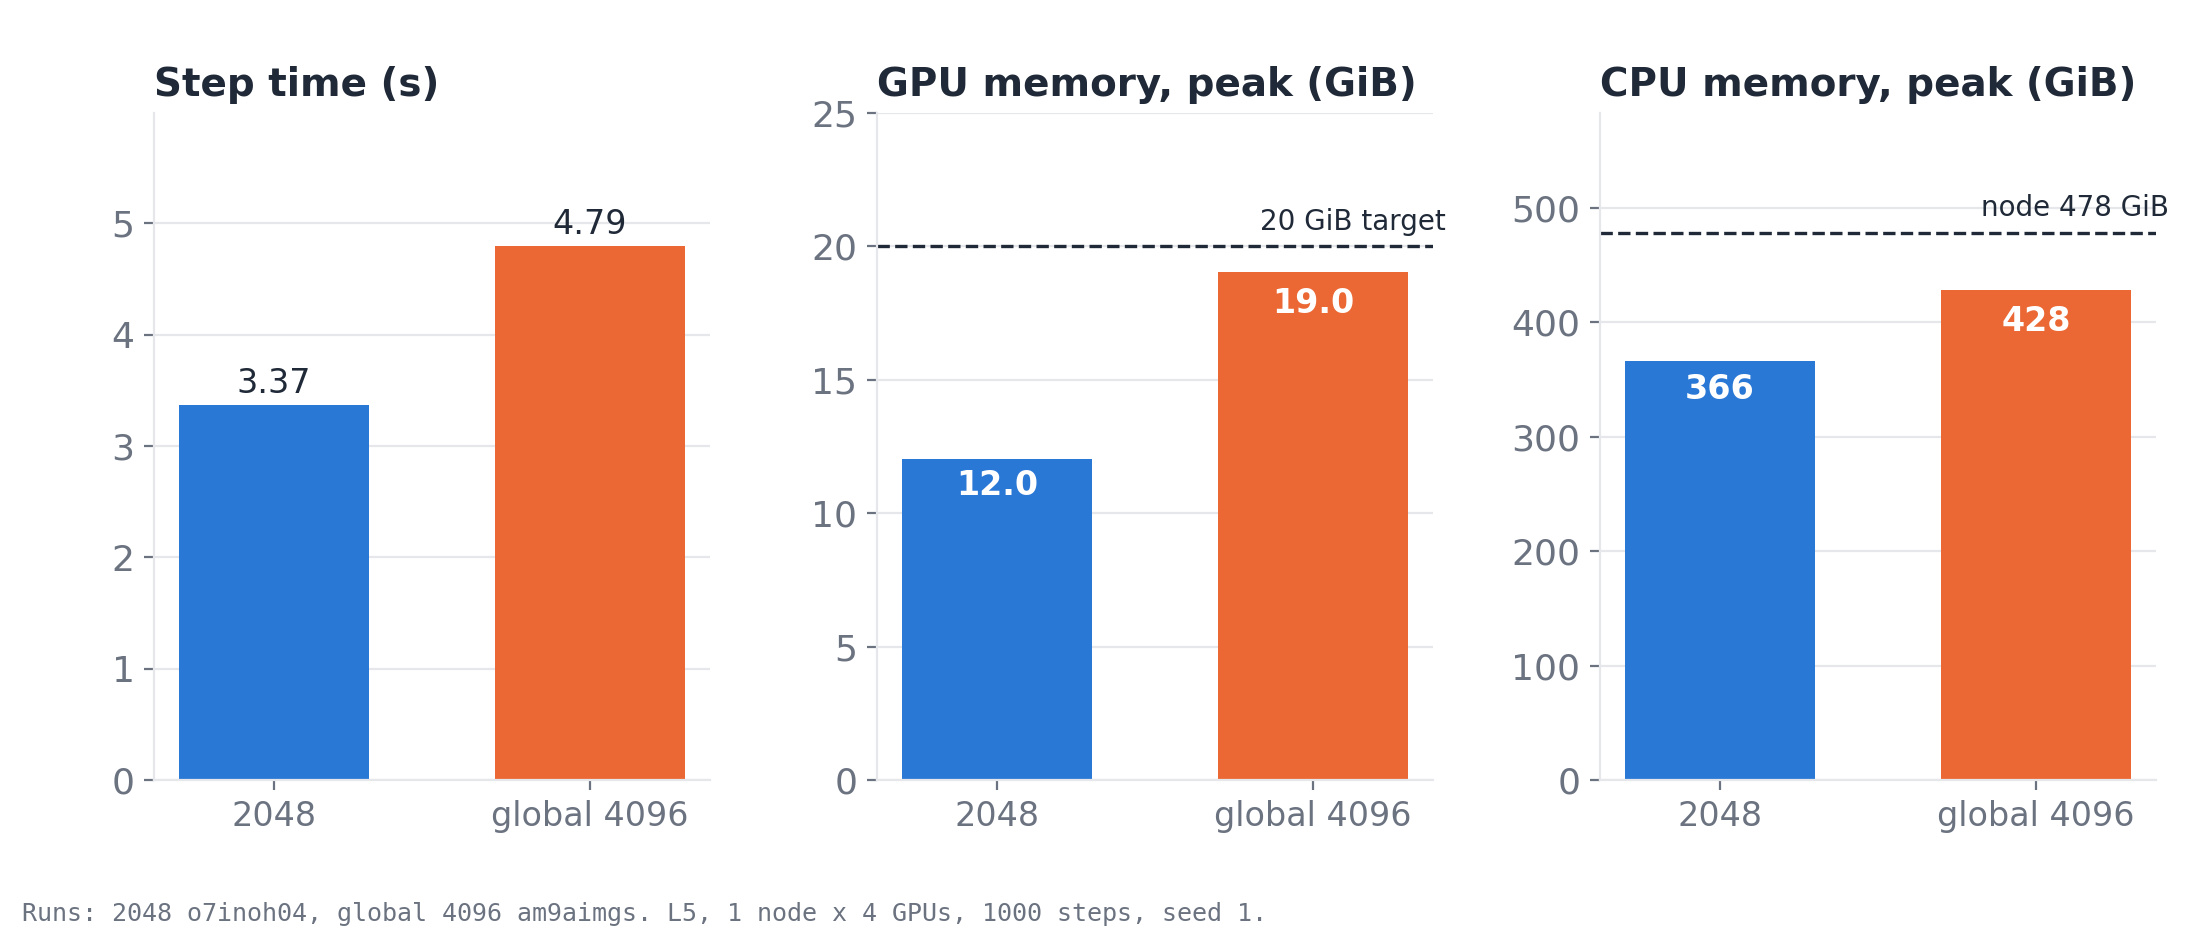
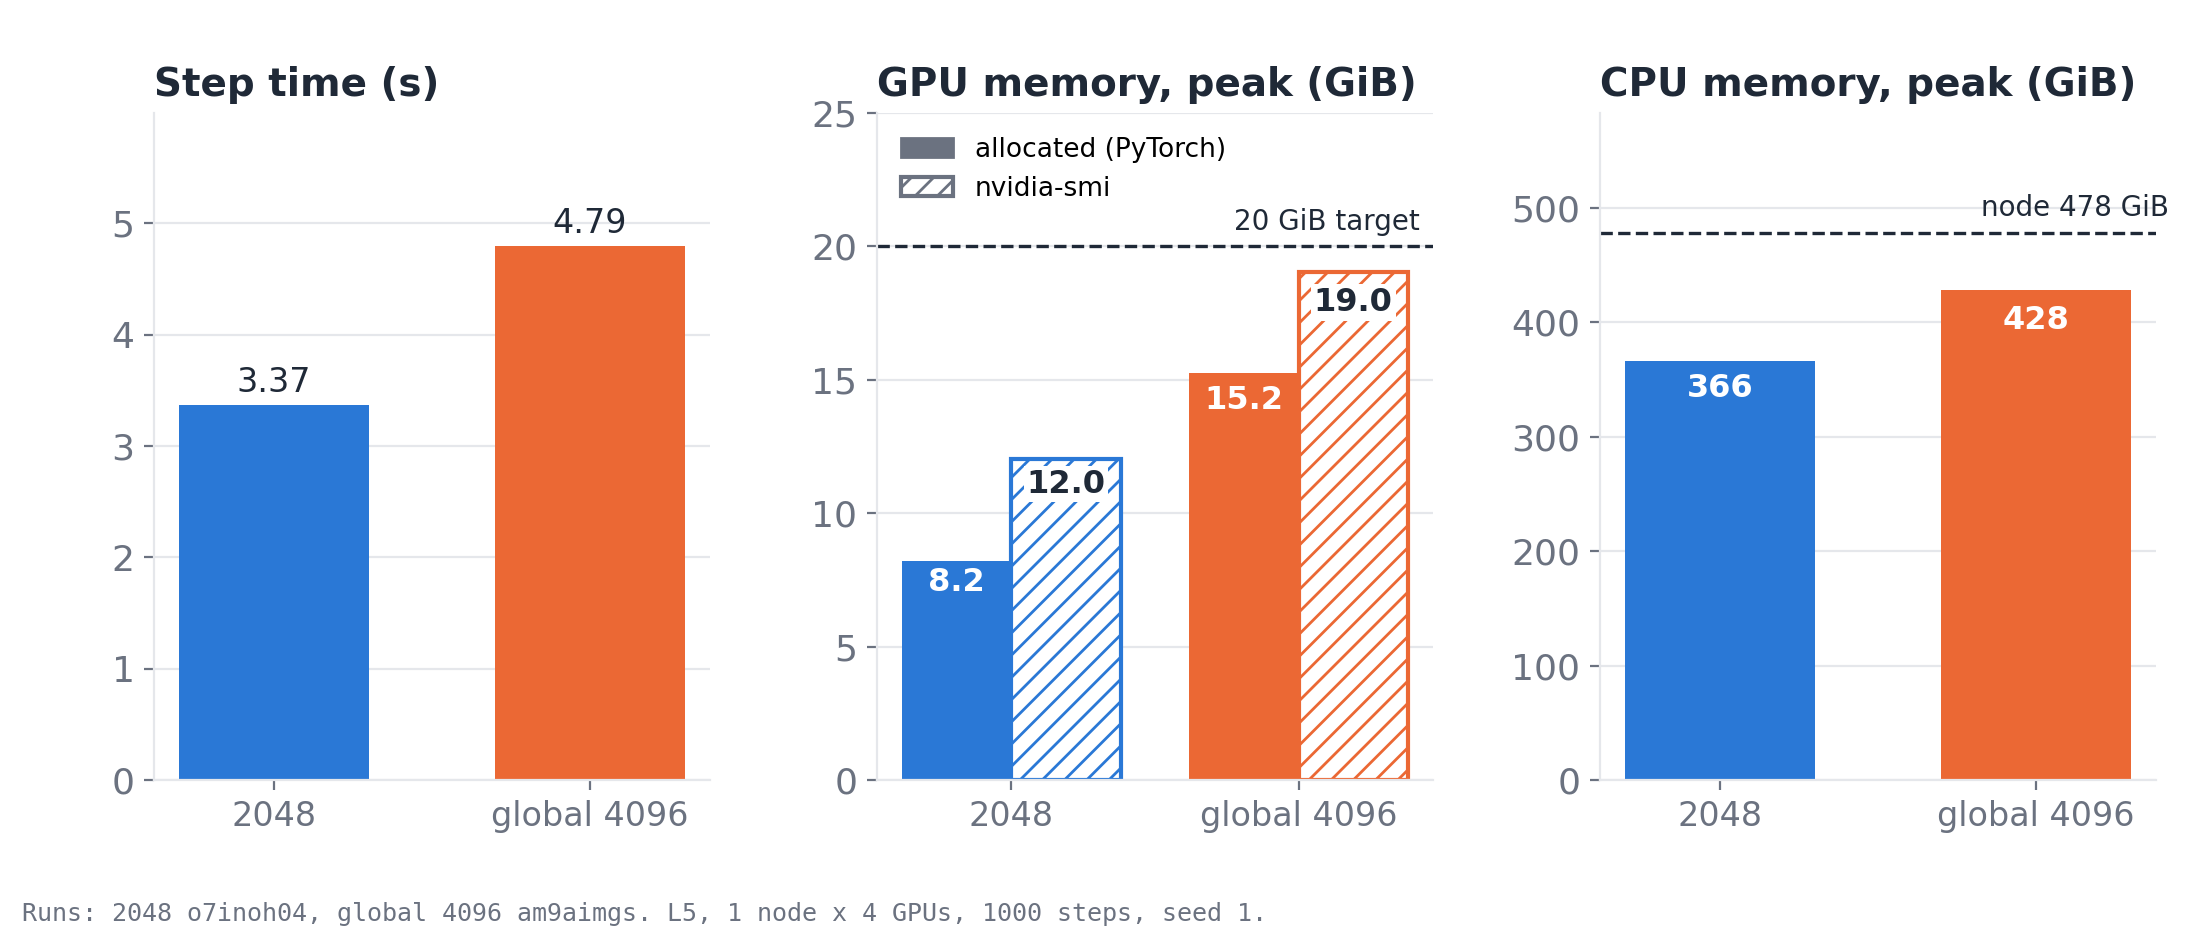
Show allocated and nvidia-smi GPU memory on the latent cost slide
Jonah compared his savings against my global 4096 run in PyTorch's allocated
peak (15.2 GiB), while the slide only showed nvidia-smi's memory used (19.0 GiB)
under a plain "GPU memory, peak" label. The GPU panel now has both bars for each
width: allocated 8.2 / 15.2 GiB and nvidia-smi 12.0 / 19.0 GiB, against the
20 GiB target. Same runs, o7inoh04 and am9aimgs.

diff --git a/scripts/plot_latent_slides.py b/scripts/plot_latent_slides.py
@@ -28,27 +28,56 @@ def save(fig, name, runs_line):
     plt.close(fig)
 
 
+def inside_top(ax, bar, fmt, color, box=False):
+    """Value label just inside the bar top, clear of the reference line above it."""
+    h = bar.get_height()
+    ax.text(bar.get_x() + bar.get_width() / 2, h * 0.97, fmt.format(h), ha="center", va="top",
+            color=color, fontsize=11.5, fontweight="bold",
+            bbox={"facecolor": "white", "edgecolor": "none", "pad": 1} if box else None)
+
+
+def gpu_panel(ax, rows, mem):
+    """PyTorch's allocated peak (what the team's memory slides compare) next to nvidia-smi's
+    memory used (everything the process holds on the GPU, sampled every 10 s)."""
+    colors = [c for *_, c in rows]
+    alloc = [max(v for v in r["gpu_alloc"] if v is not None) for _, r, _ in rows]
+    smi = [m["smi_peak"] for m in mem]
+    w = 0.38
+    b1 = ax.bar([x - w / 2 for x in (0, 1)], alloc, width=w, color=colors)
+    b2 = ax.bar([x + w / 2 for x in (0, 1)], smi, width=w, color="white", edgecolor=colors,
+                hatch="///", linewidth=1.5)
+    for bar in b1:
+        inside_top(ax, bar, "{:.1f}", "white")
+    for bar in b2:
+        inside_top(ax, bar, "{:.1f}", INK, box=True)
+    leg = ax.legend([b1[0], b2[0]], ["allocated (PyTorch)", "nvidia-smi"], loc="upper left",
+                    fontsize=9.5, frameon=False)
+    leg.legend_handles[0].set_color(MUTED)
+    leg.legend_handles[1].set_edgecolor(MUTED)
+
+
 def cost(runs):
     rows = [("2048", runs["long2048"], BLUE), ("global 4096", runs["longg4096"], ORANGE)]
     mem = [numa(ROOT / r["run"]) for _, r, _ in rows]
     panels = [
         ("Step time (s)", [statistics.median(r["step_s"][SKIP:]) for _, r, _ in rows], "{:.2f}"),
-        ("GPU memory, peak (GiB)", [m["smi_peak"] for m in mem], "{:.1f}"),
+        ("GPU memory, peak (GiB)", None, None),
         ("CPU memory, peak (GiB)", [m["cpu_used_peak"] for m in mem], "{:.0f}"),
     ]
     fig, axes = plt.subplots(1, 3, figsize=SIZE)
     for k, (ax, (title, values, fmt)) in enumerate(zip(axes, panels, strict=True)):
-        bars = ax.bar([0, 1], values, width=0.6, color=[c for *_, c in rows])
-        if k == 0:
-            label_bars(ax, bars, fmt)
-        else:  # inside the bar top, clear of the reference line just above
-            for bar in bars:
-                ax.text(bar.get_x() + bar.get_width() / 2, bar.get_height() * 0.97,
-                        fmt.format(bar.get_height()), ha="center", va="top", color="white",
-                        fontsize=12, fontweight="bold")
+        if values is None:
+            gpu_panel(ax, rows, mem)
+        else:
+            bars = ax.bar([0, 1], values, width=0.6, color=[c for *_, c in rows])
+            ax.set_ylim(0, max(values) * 1.25)
+            if k == 0:
+                label_bars(ax, bars, fmt)
+            else:
+                for bar in bars:
+                    inside_top(ax, bar, fmt, "white")
         ax.set_xticks([0, 1], [name for name, *_ in rows], fontsize=12)
         ax.set_title(title, loc="left")
-        ax.set_ylim(0, max(values) * 1.25)
     axes[1].axhline(TARGET_GIB, color=INK, lw=1.2, ls="--")
     axes[1].text(1.42, TARGET_GIB * 1.02, f"{TARGET_GIB} GiB target", ha="right", va="bottom",
                  fontsize=10, color=INK)
